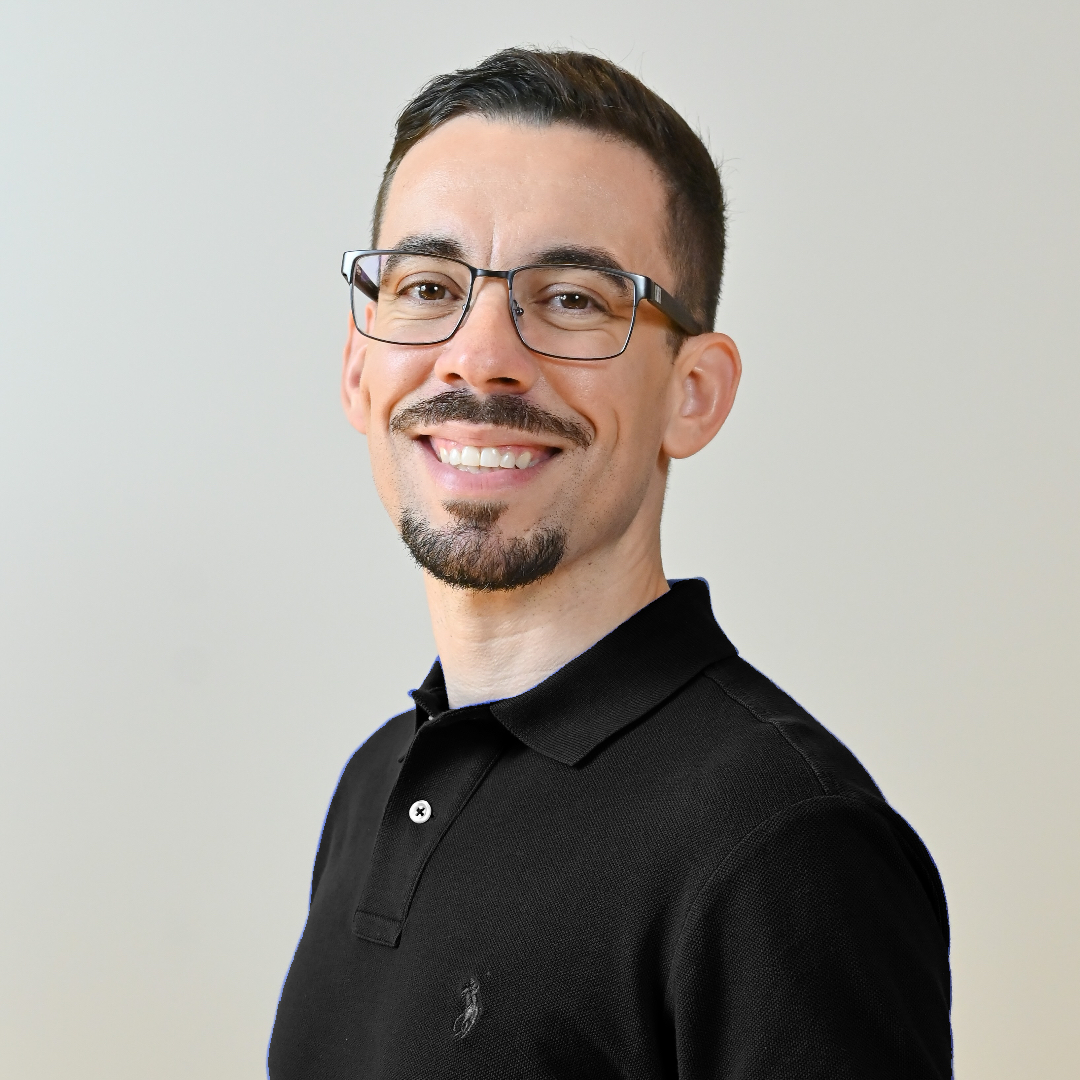
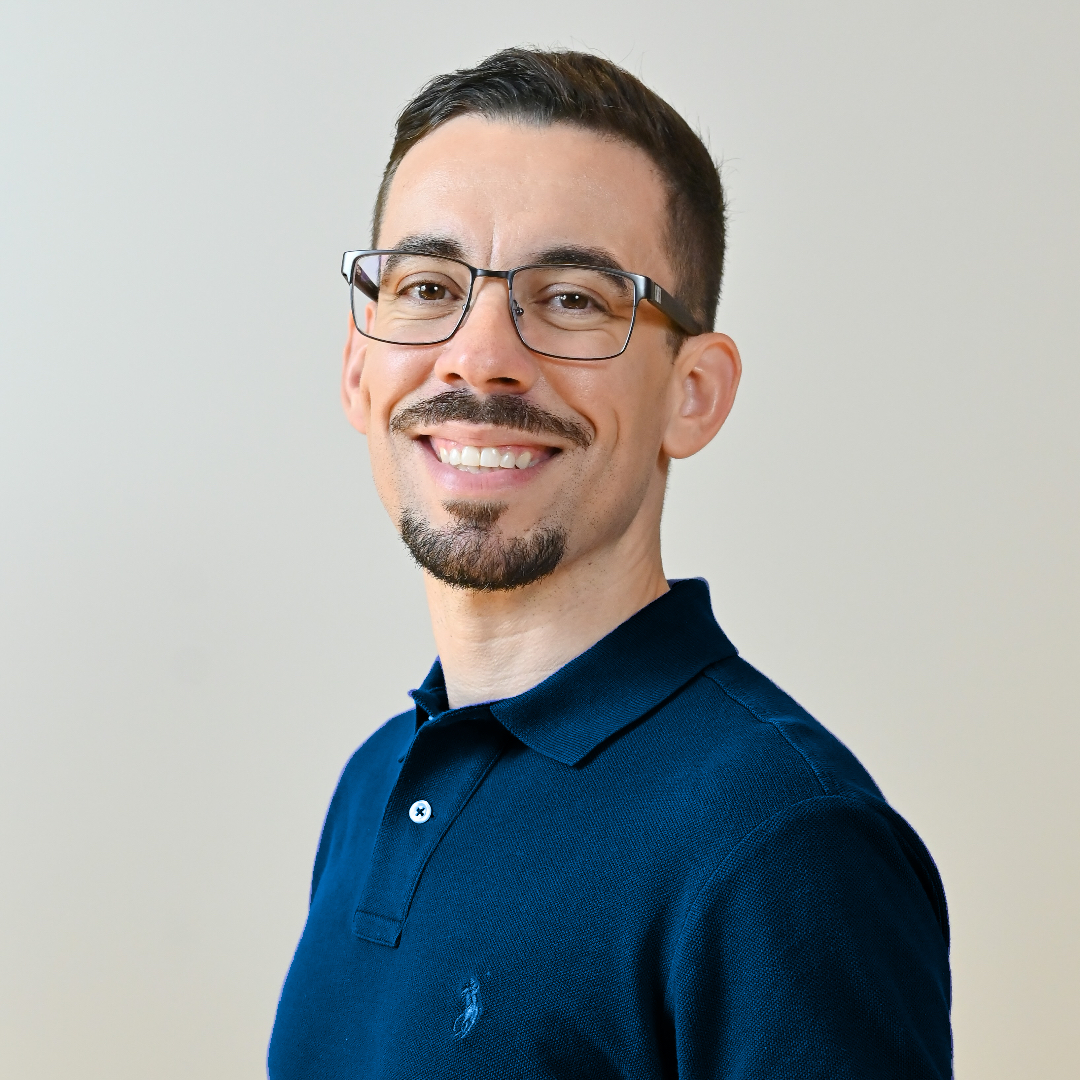
updates

diff --git a/assets/sass/0-settings/color-scheme.scss b/assets/sass/0-settings/color-scheme.scss
@@ -1,5 +1,5 @@
 /* Color Scheme */
-$primary-color: #ff8e26;
+$primary-color: #1A5276;
 $secondary-color: $primary-color;
 $white: #f8f8f8;
 $dark: #373435;
